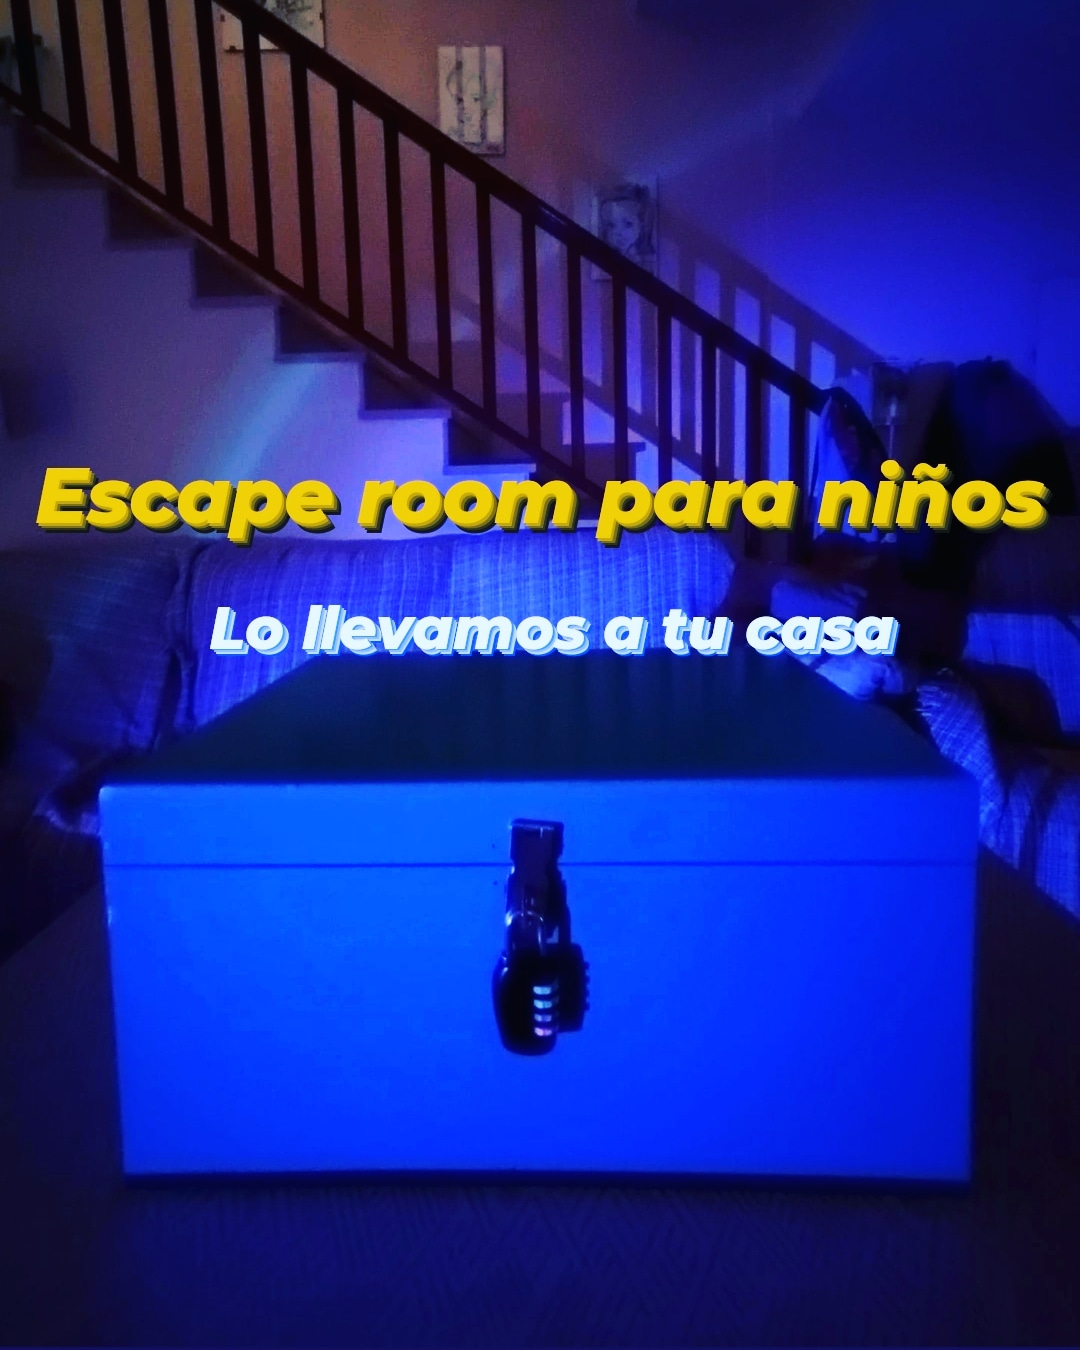
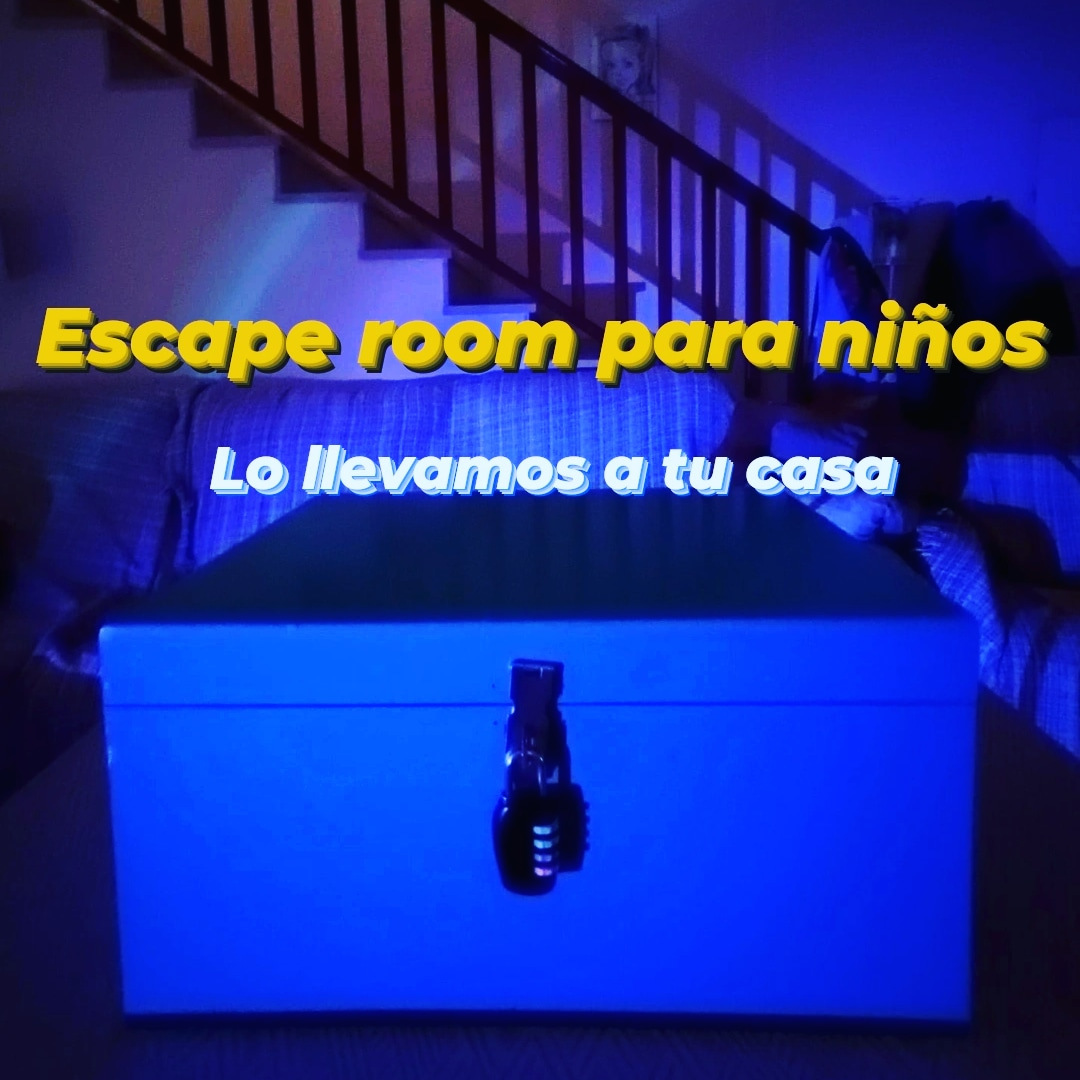
Galería añadida
Galería completamente funcional con imagenes y videos en formato 1:1

diff --git a/index.html b/index.html
@@ -113,11 +113,37 @@
 
     <div class="slide slide2">
         <div class="mitad right">
-            <div id="myVideo">
+            <div class="gallery">
+                <input type="radio" checked="checked" name="select" id="img-tab-1">
+                <label for="img-tab-1" style="background-image: url(assets/galeria/poster1-play.png);"></label>
                 <video controls poster="assets/galeria/poster1.png">
                     <source src="assets/galeria/video1.mp4" type="video/mp4">
                     Tu navegador no puede reproducir el video
                 </video>
+              
+                <input type="radio" name="select" id="img-tab-2">
+                <label for="img-tab-2" style="background-image: url(assets/galeria/img1.jpg);"></label>
+                <img src="assets/galeria/img1.jpg">
+              
+                <input type="radio" name="select" id="img-tab-3">
+                <label for="img-tab-3" style="background-image: url(assets/galeria/poster2-play.png);"></label>
+                <video controls poster="assets/galeria/poster2.png">
+                    <source src="assets/galeria/video2.mp4" type="video/mp4">
+                    Tu navegador no puede reproducir el video
+                </video>
+
+                <input type="radio" name="select" id="img-tab-4">
+                <label for="img-tab-4" style="background-image: url(assets/galeria/img2.jpg);"></label>
+                <img src="assets/galeria/img2.jpg">
+              
+                <input type="radio" name="select" id="img-tab-5">
+                <label for="img-tab-5" style="background-image: url(assets/galeria/poster3-play.png);"></label>
+                <video controls poster="assets/galeria/poster3.png">
+                    <source src="assets/galeria/video3.mp4" type="video/mp4">
+                    Tu navegador no puede reproducir el video
+                </video>
+
+                <!--ID y FOR deben aumentar en 1 progresivamente-->
             </div>
         </div>
 

diff --git a/style.css b/style.css
@@ -140,8 +140,7 @@ nav a {
   font-size: 8vw;
   text-align: center;
   margin: 5vw 0;
-  -webkit-text-stroke: 0.5vw rgb(0, 0, 0);
-  color: white;
+  
 }
 
 #tematica div {
@@ -397,14 +396,74 @@ rgba(250,250,250, 0.6)), url('assets/elRobo.png');
 
 /*------------------VIDEO------------------*/
 
-#myVideo {
-  display: flex;
-  align-items: center;
-  justify-content: center;
+.gallery {
+  display: grid;
+  grid-template-columns: 1fr 1fr 1fr 1fr;
+  grid-gap: 20px;
+  grid-column-start: 1;
+  grid-row-start: 1;
+  grid-row-end: 3;
+  align-content: start;
+  max-width: 90vw;
+  margin: 0 auto;
+  transition: all 150ms linear;
 }
 
-#myVideo video {
-  width: 90vw;
+.gallery input[type="radio"] {
+  display: none;
+}
+
+.gallery label {
+  position: relative;
+  display: block;
+  padding-bottom: 60%;
+  margin: 5px;
+  cursor: pointer;
+  background-repeat: no-repeat;
+  background-size: cover;
+  background-position: 50% 50%;
+}
+
+.gallery label:before {
+  border: 1px solid #e3e3e3;
+  content: "";
+  position: absolute;
+  left: -5px;
+  right: -5px;
+  bottom: -5px;
+  top: -5px;
+}
+
+.gallery img {
+  display: none;
+  grid-column-start: 1;
+  grid-column-end: 5;
+  grid-row-start: 1;
+  grid-row-end: 2;
+  width: 100%;
+  transition: all 150ms linear;
+}
+
+.gallery video {
+  display: none;
+  grid-column-start: 1;
+  grid-column-end: 5;
+  grid-row-start: 1;
+  grid-row-end: 2;
+  width: 100%;
+  transition: all 150ms linear;
+}
+
+.gallery input[name="select"]:checked + label + img {
+  display: block;
+}
+
+.gallery input[name="select"]:checked + label + video {
+  display: block;
+}
+
+.gallery input[name="select"]:checked + label:before {
+  border: 1px solid #000;
 }
 
 
